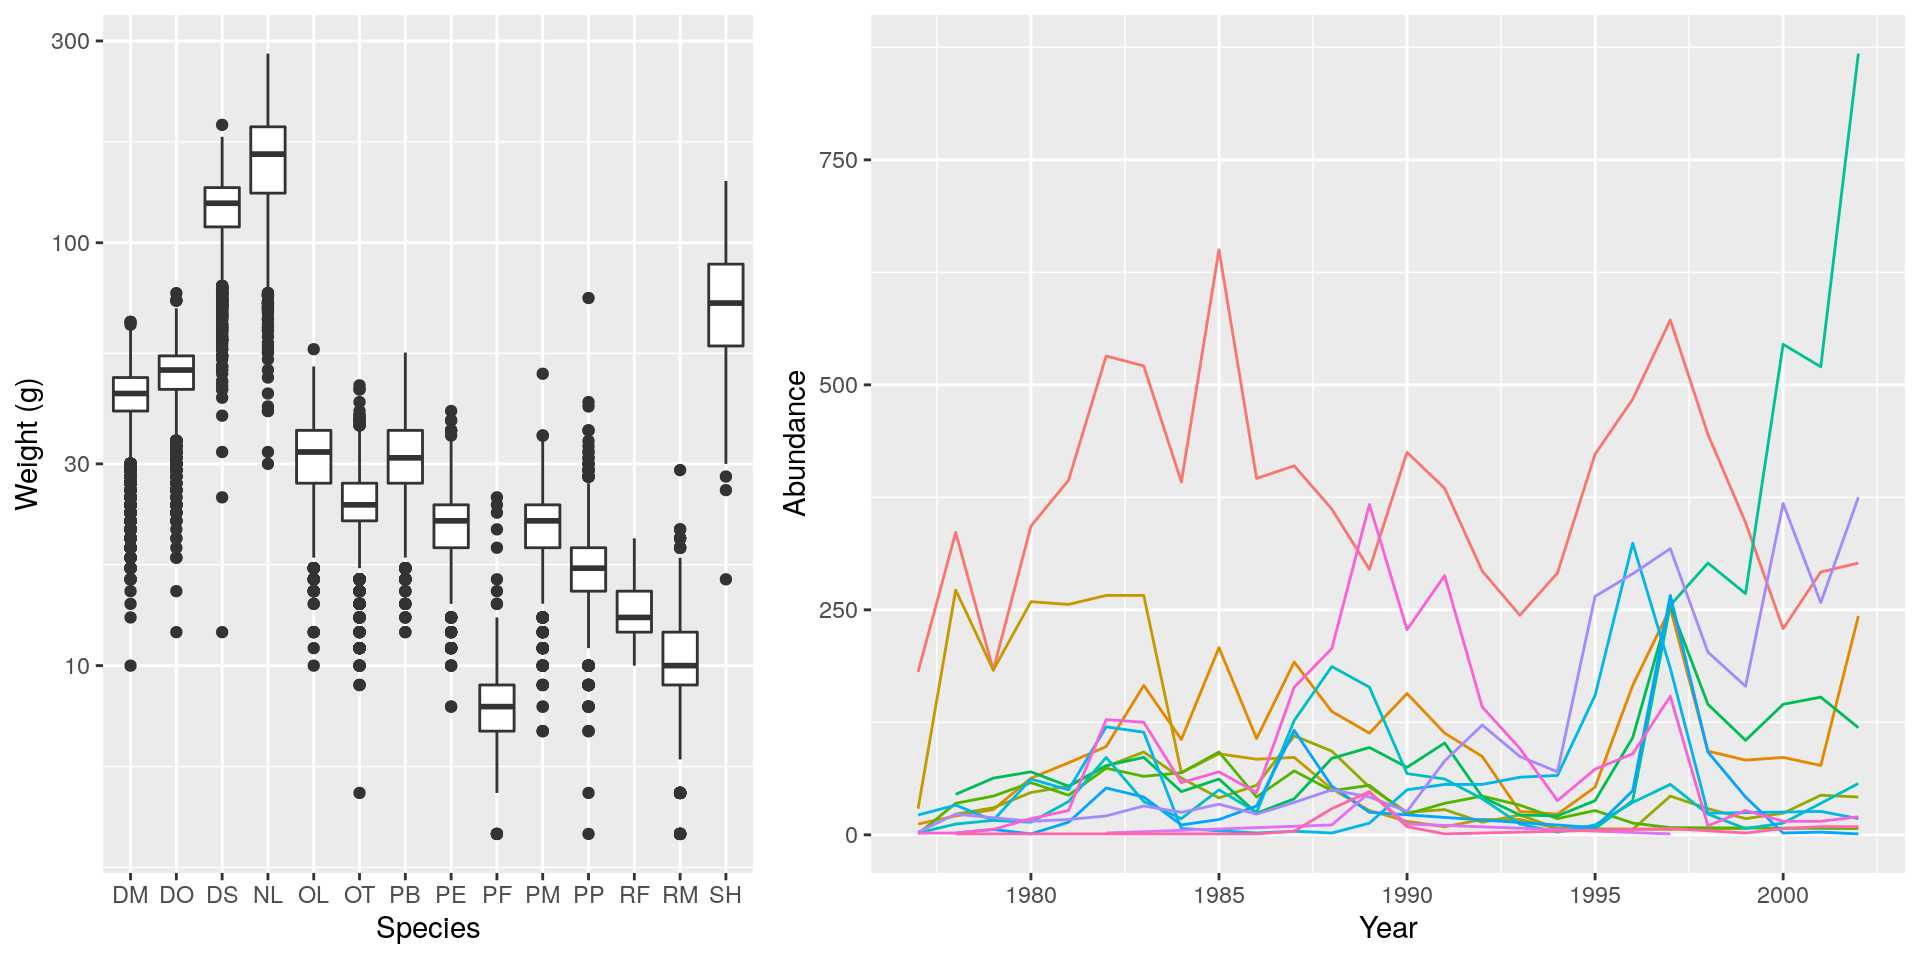
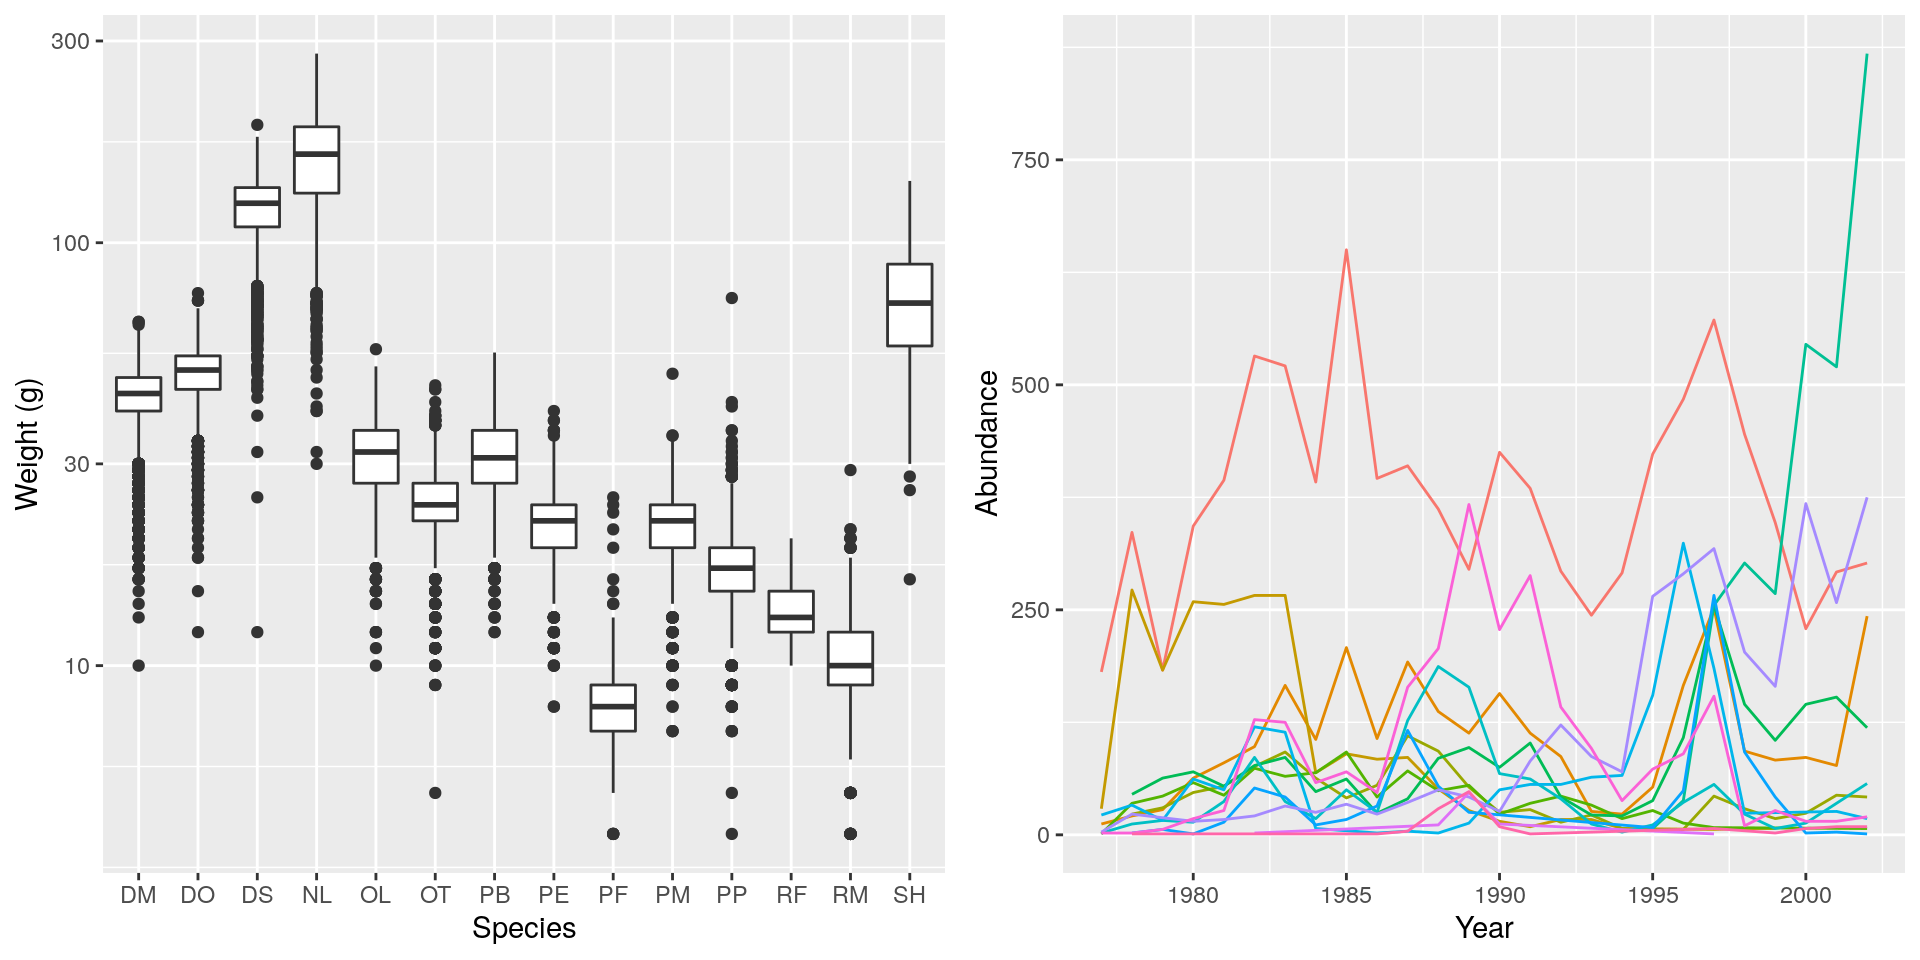
don't mention witdths in gird.arrange()

diff --git a/docs/sec-vis.html b/docs/sec-vis.html
@@ -697,7 +697,7 @@ with <code>plot_layout</code> to create more complex layouts:</p>
 separate ggplots into a single figure using <code>grid.arrange()</code>:</p>
 <div class="sourceCode" id="cb415"><pre class="sourceCode r"><code class="sourceCode r"><a class="sourceLine" id="cb415-1" data-line-number="1"><span class="kw">install.packages</span>(<span class="st">"gridExtra"</span>)</a></code></pre></div>
 <div class="sourceCode" id="cb416"><pre class="sourceCode r"><code class="sourceCode r"><a class="sourceLine" id="cb416-1" data-line-number="1"><span class="kw">library</span>(gridExtra)</a>
-<a class="sourceLine" id="cb416-2" data-line-number="2"><span class="kw">grid.arrange</span>(spp_weight_boxplot, spp_count_plot, <span class="dt">ncol =</span> <span class="dv">2</span>, <span class="dt">widths =</span> <span class="kw">c</span>(<span class="dv">4</span>, <span class="dv">6</span>))</a></code></pre></div>
+<a class="sourceLine" id="cb416-2" data-line-number="2"><span class="kw">grid.arrange</span>(spp_weight_boxplot, spp_count_plot, <span class="dt">ncol =</span> <span class="dv">2</span>)</a></code></pre></div>
 <p><img src="WSBIM1207_files/figure-html/gridarrange-example-1.png" width="960"></p>
 <p>In addition to the <code>ncol</code> and <code>nrow</code> arguments, used to make simple
 arrangements, there are tools for <a href="https://cran.r-project.org/web/packages/gridExtra/vignettes/arrangeGrob.html">constructing more complex

diff --git a/docs/sec-prog.html b/docs/sec-prog.html
@@ -600,7 +600,7 @@ and you should get 4825.2778709 and 23.</p>
 ##     }
 ##     return(sum(res))
 ## }
-## &lt;bytecode: 0x55a6aca77968&gt;</code></pre>
+## &lt;bytecode: 0x56188a018aa0&gt;</code></pre>
 <div class="sourceCode" id="cb541"><pre class="sourceCode r"><code class="sourceCode r"><a class="sourceLine" id="cb541-1" data-line-number="1"><span class="kw">set.seed</span>(1L)</a>
 <a class="sourceLine" id="cb541-2" data-line-number="2"><span class="kw">fun</span>(<span class="dv">5</span>, <span class="dv">15</span>)</a></code></pre></div>
 <pre><code>## [1] 4825.278</code></pre>
